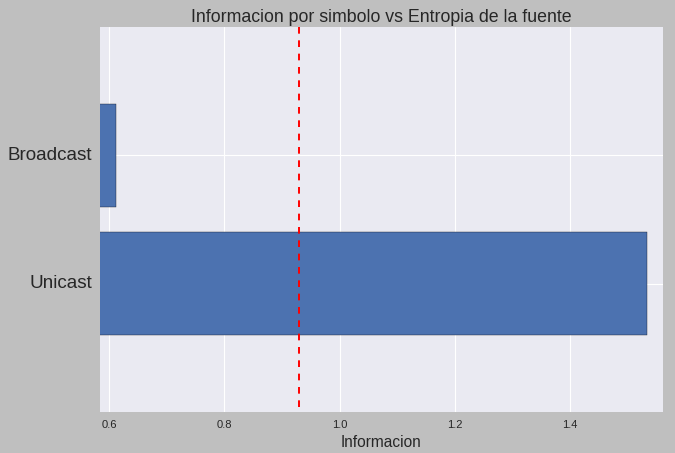
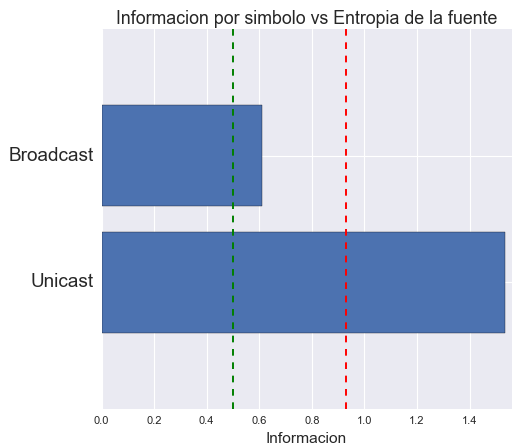
Agrego 2 imagenes de info vs entropia y modifico un toque el script de barras_entropia para que en verde muestre la entropia maxima

diff --git a/source/tools/barras_entropia.py b/source/tools/barras_entropia.py
@@ -94,8 +94,11 @@ class Graficador():
             numeracion.append(cont)
             cont += 1
 
+        entropia_max = truediv(1,len(self.simbolos.keys()))
+        print entropia_max
+
         fig, ax = plt.subplots()
-        ax.set_xlim([min(infos) - 0.03 * abs(max(infos)-min(infos)), max(infos) + 0.03 * abs(max(infos)-min(infos))])
+        ax.set_xlim([min(min(infos) - 0.03 * abs(max(infos)-min(infos)), 0), max(infos) + 0.03 * abs(max(infos)-min(infos))])
         ax.set_ylim([-1, len(ids)])
         ax.barh(numeracion, infos, align='center')
         ax.set_yticks(numeracion)
@@ -107,6 +110,7 @@ class Graficador():
         box = ax.get_position()
         ax.set_position([0.25, box.y0, box.width - 0.05, box.height])
         ax.plot([self.entropia, self.entropia], [-1, len(ids)], "r--")
+        ax.plot([entropia_max, entropia_max], [-1, len(ids)], "g--")
         plt.show()
 
 archivo_entrada = raw_input("Ingrese el archivo de paquetes: ")
